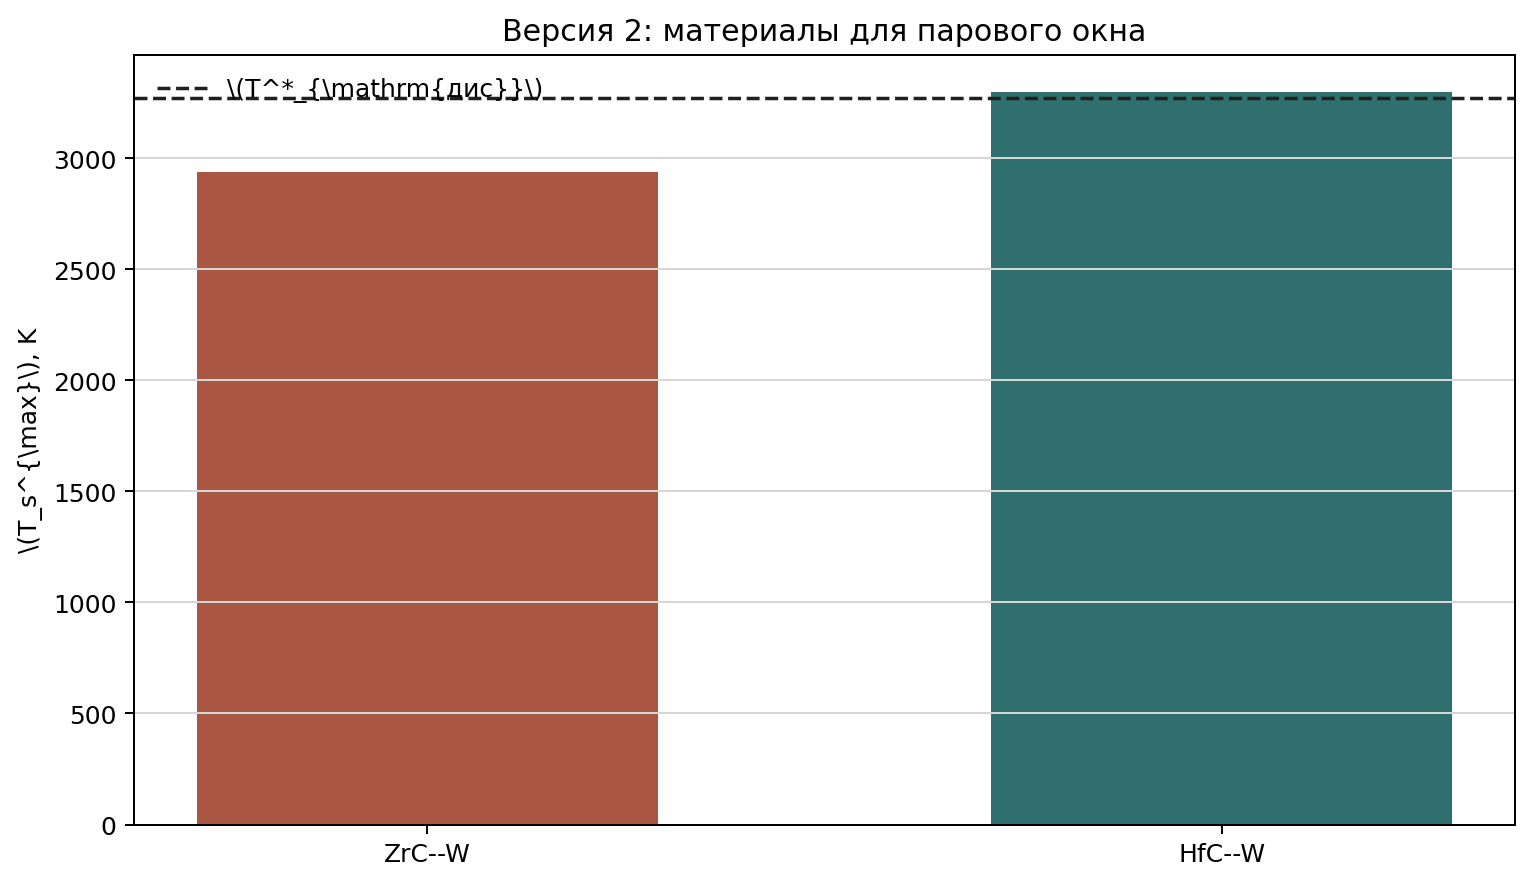
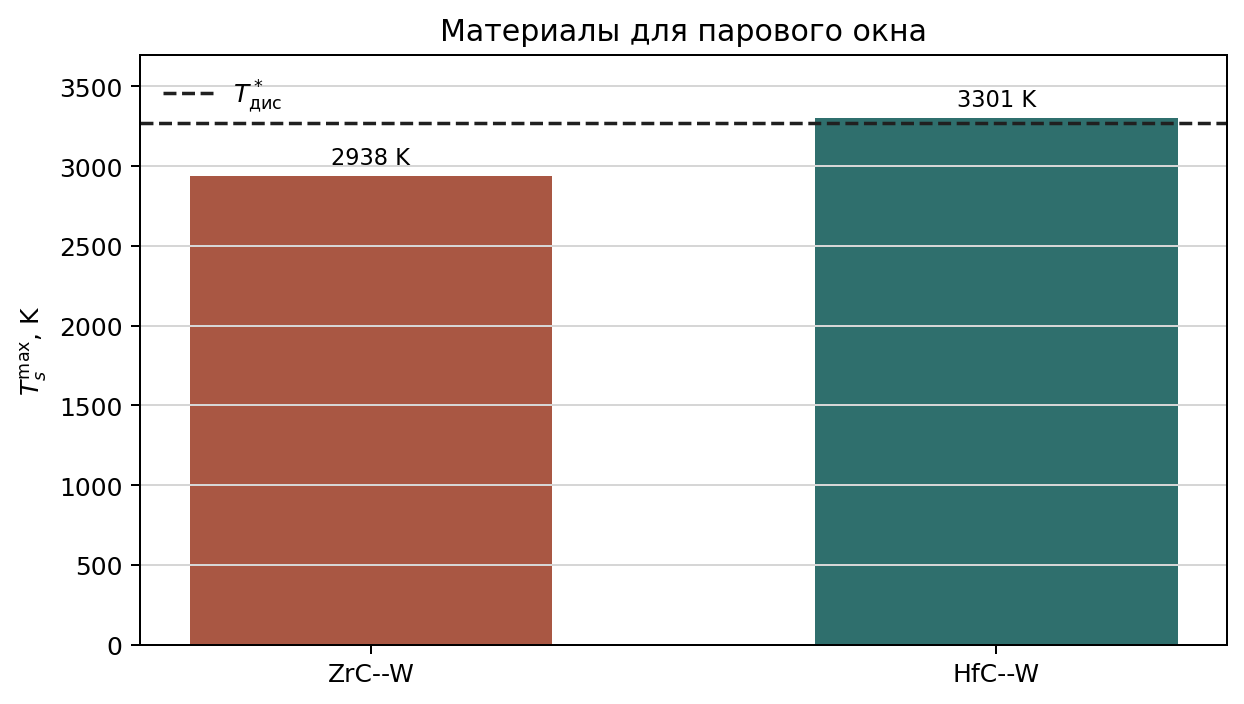
Update thesis figures and pipeline report

Changed region(s): [[0.0, 0.0, 1.0, 1.0]]

diff --git a/scripts/make_fig_thermal_radial_relaxation.py b/scripts/make_fig_thermal_radial_relaxation.py
@@ -1,8 +1,8 @@
-"""Generate fig14_thermal_radial_relaxation.
+"""Generate fig14_thermal_radial_relaxation for the active thesis text.
 
-The script solves a 1D radial heat equation for a simplified UO2-gap-Zr fuel
-pin after a uniform fuel pulse and plots radial relaxation plus energy
-partition between fuel, cladding, and coolant.
+The script solves a compact 1D radial heat equation for a simplified
+UO2-gap-Zr fuel pin after a uniform fuel pulse and plots the thermal lag
+between fuel, cladding, and the external water/steam side.
 """
 from __future__ import annotations
 
@@ -196,7 +196,7 @@ def make_figure(out_path: Path, png_path: Path) -> None:
 
     rc_mm = sim["rc"] * 1e3
 
-    fig, axes = plt.subplots(1, 2, figsize=(15.5, 6.6),
+    fig, axes = plt.subplots(1, 2, figsize=(12.4, 4.8),
                              gridspec_kw={"width_ratios": [1.15, 1.0]})
 
     # =========================================================
@@ -210,16 +210,28 @@ def make_figure(out_path: Path, png_path: Path) -> None:
     ax.axvspan(R_GAP_OUT * 1e3, R_CLAD_OUT * 1e3, color="#CFD8DC", alpha=0.85, zorder=0)
     ax.axvspan(R_CLAD_OUT * 1e3, 5.6, color="#BBDEFB", alpha=0.55, zorder=0)
 
-    # Material labels (inside axis, top edge)
-    for x, lbl in [
-        (R_FUEL * 1e3 / 2, r"UO$_2$"),
-        ((R_FUEL + R_GAP_OUT) * 1e3 / 2, "He gap"),
-        ((R_GAP_OUT + R_CLAD_OUT) * 1e3 / 2, "Zr"),
-        ((R_CLAD_OUT * 1e3 + 5.6) / 2, r"H$_2$O"),
+    # Material labels (inside axis, top edge).  The gas gap is too thin for
+    # a horizontal label, so it is marked vertically near the interface.
+    for x, lbl, fs, ha in [
+        (R_FUEL * 1e3 / 2, r"UO$_2$", 10.0, "center"),
+        ((R_GAP_OUT + R_CLAD_OUT) * 1e3 / 2, "оболочка", 8.3, "center"),
+        (5.32, r"H$_2$O/пар", 8.3, "right"),
     ]:
         ax.text(x, 0.965, lbl, transform=ax.get_xaxis_transform(),
-                ha="center", va="top", fontsize=10, color="#263238",
+                ha=ha, va="top", fontsize=fs, color="#263238",
                 fontweight="bold")
+    ax.text(
+        (R_FUEL + R_GAP_OUT) * 1e3 / 2,
+        0.92,
+        "зазор",
+        transform=ax.get_xaxis_transform(),
+        ha="center",
+        va="top",
+        rotation=90,
+        fontsize=8.5,
+        color="#5d4a00",
+        fontweight="bold",
+    )
 
     # Initial pulse profile (uniform DT in fuel, 0 elsewhere)
     T0_curve = np.where(sim["tag"] == 0, 200.0, 0.0)
@@ -260,9 +272,9 @@ def make_figure(out_path: Path, png_path: Path) -> None:
     ax.set_xlabel("радиус r, мм", fontsize=11)
     ax.set_ylabel(r"$\Delta T_f(r,t)$, К  (отклонение от равновесия с водой)",
                   fontsize=11)
-    ax.set_title(r"(а) Радиальная релаксация теплового следа $\Delta T_f(r,t)$",
+    ax.set_title(r"(а) Радиальная релаксация $\Delta T(r,t)$",
                  fontsize=12, pad=10)
-    ax.legend(loc="upper right", fontsize=9, framealpha=0.95, ncol=1)
+    ax.legend(loc="lower left", fontsize=8.4, framealpha=0.95, ncol=1)
     ax.grid(True, ls=":", alpha=0.45)
 
     # =========================================================
@@ -290,12 +302,12 @@ def make_figure(out_path: Path, png_path: Path) -> None:
              rotation=90, va="center", ha="right", fontsize=10, color="#212121")
 
     # Annotate Doppler vs water "windows"
-    ax2.annotate(r"окно $K_D(t)$:" "\n" r"объёмный нагрев топлива",
+    ax2.annotate("ранняя стадия:\nэнергия в топливе",
                  xy=(3e-3, 0.97), xytext=(2e-4, 0.62),
                  fontsize=10, color="#BF360C", ha="left",
                  arrowprops=dict(arrowstyle="-|>", color="#BF360C", lw=1.1,
                                  connectionstyle="arc3,rad=0.15"))
-    ax2.annotate(r"окно $H_{fw}(t)$:" "\n" r"выход энергии к воде",
+    ax2.annotate("задержанная стадия:\nвыход к воде/пару",
                  xy=(5.0, 0.78), xytext=(0.6, 0.20),
                  fontsize=10, color="#0D47A1", ha="left",
                  arrowprops=dict(arrowstyle="-|>", color="#0D47A1", lw=1.1,
@@ -305,14 +317,13 @@ def make_figure(out_path: Path, png_path: Path) -> None:
     ax2.set_ylim(0, 1.0)
     ax2.set_xlabel("время t, с (логарифмическая шкала)", fontsize=11)
     ax2.set_ylabel("доля энергии импульса", fontsize=11)
-    ax2.set_title(r"(б) Разделение энергии импульса по объёмам",
+    ax2.set_title("(б) Разделение энергии импульса",
                   fontsize=12, pad=10)
     ax2.legend(loc="upper left", fontsize=9, framealpha=0.95)
     ax2.grid(True, which="both", ls=":", alpha=0.45)
 
     fig.suptitle(
-        "Эволюция теплового следа в твэле после импульса мощности: "
-        "доплеровский и водный каналы живут на разных временах",
+        "Тепловая задержка между топливом и паровой областью после импульса",
         fontsize=13.5, y=0.995,
     )
 

diff --git a/main.tex b/main.tex
@@ -97,13 +97,13 @@ P'(t)\rightarrow T_f(r,t)\rightarrow T_c(r,t)\rightarrow q''_{cw}(t)
 \[
 q'''(t)=\frac{P'(t)}{\pi R_f^2}.
 \]
-В дальнейшем \(P'(t)\) рассматривается как входной сигнал тепловой модели; краткое пояснение его нейтронно-физического смысла вынесено в приложение Б.
+В дальнейшем \(P'(t)\) рассматривается как входной сигнал тепловой модели; краткое пояснение его нейтронно-физического смысла вынесено в приложение В.
 
 В расчетном сценарии входными параметрами являются \(E_{\mathrm{вв}}\), длительность импульса \(\tau_p\), материальная пара топлива и оболочки, давление \(p_s\), толщина паровой прослойки \(\delta_s\), начальная температура внешней среды и эффективные параметры зазора и теплоотдачи. Достижением режима считается не просто нагрев твердой части твэла, а одновременное выполнение трех условий: температура пара входит в выбранное высокотемпературное окно, топливо и оболочка остаются в допустимых пределах, а водородная оценка относится к разложению пара, а не к аварийному окислению оболочки.
 
 \begin{figure}[H]
     \centering
-    \includegraphics[width=\textwidth]{figures/fig7_fuel_pin_anatomy.pdf}
+    \includegraphics[width=0.92\textwidth]{figures/fig7_fuel_pin_anatomy.pdf}
     \caption{Расчетная область: энерговыделение возникает в топливе \(UO_2\), затем энергия проходит через газовый зазор и оболочку к воде или пару. Высокая температура топлива сама по себе не означает высокую температуру паровой области.}
     \label{fig:fuelPinAnatomyTheory}
 \end{figure}
@@ -158,8 +158,8 @@ q''_{cw}=\mathcal{Q}(T_s,T_\infty,p,G,\chi).
 
 \begin{figure}[H]
     \centering
-    \includegraphics[width=\textwidth]{figures/fig14_thermal_radial_relaxation.pdf}
-    \caption{Радиальная тепловая релаксация твэла после короткого импульса мощности. В первые миллисекунды энергия остается главным образом в топливе; заметный выход к воде формируется на более длинном тепловом масштабе и может быть описан редуцированным ядром \(H_{fw}\).}
+    \includegraphics[width=0.90\textwidth]{figures/fig14_thermal_radial_relaxation.pdf}
+    \caption{Радиальная тепловая релаксация твэла после короткого импульса мощности. В первые миллисекунды энергия остается главным образом в топливе; заметный выход к воде или пару формируется на более длинном тепловом масштабе.}
     \label{fig:thermalRadialRelaxation}
 \end{figure}
 
@@ -325,7 +325,29 @@ E_{\mathrm{вв}},\ \tau_p,\ h_g,\ h_s,\ \delta_s,\ p,\ \text{материаль
 \]
 где отдельно размечаются области: окно не достигнуто; окно достигнуто без нарушения пределов; окно достигнуто только аварийно; материалы нарушены без полезного окна.
 
-Версия 2 вводится именно как такой отдельный отборочный расчет. Она не отменяет отрицательный вывод по \(UO_2\)--Zircaloy, а проверяет, появляется ли хотя бы тепловая область для более тугоплавкой материальной архитектуры. По результатам материаловедческого отбора \(UO_2\), \(UN\), \(UC\), Zircaloy, Mo и SiC/SiC не проходят первый температурный фильтр для паровой стенки около \(3273\,\mathrm{K}\). Вольфрам и рефрактерные карбиды могут открыть математическое тепловое окно, но наружная поверхность в прямом контакте с паром должна отдельно пройти химическую, механическую и нейтронно-физическую проверку.
+Отдельный отборочный расчет не отменяет отрицательный вывод по \(UO_2\)--Zircaloy, а проверяет, появляется ли хотя бы тепловая область для более тугоплавкой материальной архитектуры. По результатам материаловедческого отбора \(UO_2\), \(UN\), \(UC\), Zircaloy, Mo и SiC/SiC не проходят первый температурный фильтр для паровой стенки около \(3273\,\mathrm{K}\). Этот фильтр является только необходимым условием: материал должен выдерживать температуру выше целевого слоя с запасом на радиальный градиент, разброс свойств и состояние поверхности \cite{IAEATHPH2007,IAEATECDOC1496,NRC10CFR5046,LOCAOxidation,ORNLSiCSiC2018}. Вольфрам и рефрактерные карбиды могут открыть математическое тепловое окно, но наружная поверхность в прямом контакте с паром должна отдельно пройти химическую, механическую и нейтронно-физическую проверку.
+
+\begin{table}[H]
+    \centering
+    \caption{Первый температурный фильтр материалов для паровой стенки около \(3273\,\mathrm{K}\). Таблица показывает только необходимое тепловое условие и не является полной квалификацией материала.}
+    \label{tab:firstTemperatureMaterialFilter}
+    \small
+    \renewcommand{\arraystretch}{1.15}
+    \resizebox{\textwidth}{!}{%
+    \begin{tabular}{@{}p{2.8cm}p{4.0cm}p{8.0cm}@{}}
+    \hline
+    Материал & Ограничивающий температурный ориентир & Вывод для текущей постановки \\
+    \hline
+    \(UO_2\) & \(T_m\approx3120\,\mathrm{K}\) & Предел топлива ниже целевого слоя \(3273\,\mathrm{K}\); при внутреннем источнике тепла нет запаса на радиальный градиент. \\
+    \(UN\) & \(T_m\approx3120\,\mathrm{K}\), устойчивость зависит от парциального давления азота & Теплопроводность выше, чем у \(UO_2\), но температурный запас для паровой стенки отсутствует. \\
+    \(UC\) & \(T_m\approx2780\,\mathrm{K}\) & Хорошая теплопроводность не компенсирует слишком низкий температурный предел. \\
+    Zircaloy & \(T_{\mathrm{lim},c}=1477\,\mathrm{K}\), плавление порядка \(2.1\cdot10^3\,\mathrm{K}\) & Оболочка нарушает допустимый предел задолго до области высокотемпературного разложения пара. \\
+    Mo & \(T_m\approx2896\,\mathrm{K}\) & Металл теплопроводен, но плавится ниже цели и требует отдельной проверки парового окисления. \\
+    SiC/SiC & Область аварийно-толерантной оболочки лежит ниже целевого окна; высокотемпературная деградация начинается до \(3273\,\mathrm{K}\) & Материал важен для аварийно-толерантных оболочек, но не является наружной стенкой для прямого контакта с паром около \(3000^\circ\mathrm{C}\). \\
+    \hline
+    \end{tabular}
+    }
+\end{table}
 
 \input{figures/pipeline_v2_report.tex}
 
@@ -387,7 +409,7 @@ E_{\mathrm{вв}},\ \tau_p,\ h_g,\ h_s,\ \delta_s,\ p,\ \text{материаль
 
 Полученные результаты следует рассматривать как предварительную физическую границу, а не как проектную проработку установки. Текущая модель задает одномерный радиальный теплоперенос и приповерхностную паровую прослойку. Она не описывает трехмерную гидродинамику канала, образование и срыв пленки, переменный контакт воды и пара с оболочкой, механические напряжения оболочки, деформацию топлива и изменение зазора при быстром нагреве.
 
-Материальные ограничения также заданы упрощенно. Для \(UO_2\)--Zircaloy используется температурный предел оболочки и ориентир по плавлению топлива, но не рассчитываются окисление, охрупчивание, циклический термоудар и ресурс после импульса. Поэтому отрицательный вывод версии 1 следует понимать как необходимую температурную границу для циркониевой оболочки, а не как полную расчетную модель поведения оболочки в аварийном паровом режиме. Версия 2 выполняет только тепловой отбор новых материалов и не является квалификацией новой оболочки в паре.
+Материальные ограничения также заданы упрощенно. Для \(UO_2\)--Zircaloy используется температурный предел оболочки и ориентир по плавлению топлива, но не рассчитываются окисление, охрупчивание, циклический термоудар и ресурс после импульса. Поэтому отрицательный вывод версии 1 следует понимать как необходимую температурную границу для циркониевой оболочки, а не как полную расчетную модель поведения оболочки в аварийном паровом режиме. Материаловедческий отбор выполняет только тепловую проверку новых материалов и не является квалификацией новой оболочки в паре.
 
 Химический блок является верхней оценкой. В расчете учитывается энергия, которая могла бы быть потрачена на разложение воды после достижения выбранного температурного порога, но не рассчитываются равновесный состав с радикалами, кинетика реакций, время пребывания при высокой температуре, смешение, рекомбинация и быстрое охлаждение продуктов. Поэтому \(m_{H_2}^{\max}\) является верхней границей, а не прогнозом извлекаемой массы водорода.
 
@@ -399,7 +421,7 @@ E_{\mathrm{вв}},\ \tau_p,\ h_g,\ h_s,\ \delta_s,\ p,\ \text{материаль
 
 Для базовой материальной пары \(UO_2\)--Zircaloy расчетный вариант с \(E_{\mathrm{вв}}=250\,\mathrm{кДж/м}\) не достигает принятого порога \(T^*_{\mathrm{дис}}=3273\,\mathrm{K}\) в паровой прослойке. Более сильный результат состоит в том, что уже уровень слабой диссоциации \(x_{H_2}\sim10^{-4}\) при давлении \(15.5\,\mathrm{МПа}\) требует температуры выше принятого предела циркониевой оболочки \(1477\,\mathrm{K}\). Увеличение импульсной энергии приводит к росту температуры топлива и оболочки раньше, чем формируется допустимое термолизное окно. Поэтому в рамках принятых допущений штатная водоохлаждаемая материальная пара не дает корректного режима прямого высокотемпературного разложения водяного пара.
 
-Вторая версия расчета отдельно проверяет, может ли изменение материальной архитектуры открыть тепловое окно без подмены результата по \(UO_2\)--Zircaloy. Полученный отбор показывает две разные роли. ZrC-центричная ветка является более защищаемым исследовательским направлением, но в текущих параметрах остается ниже принятого порога. \(HfC\)--W открывает тепловое окно в математической модели, однако остается только верхним контрфактом из-за гафния, парового окисления вольфрама и отсутствия квалификации наружной поверхности.
+Материаловедческий отбор отдельно проверяет, может ли изменение архитектуры открыть тепловое окно без подмены результата по \(UO_2\)--Zircaloy. Полученный расчет показывает две разные роли. ZrC-центричная ветка является более защищаемым исследовательским направлением, но в текущих параметрах остается ниже принятого порога. \(HfC\)--W открывает тепловое окно в математической модели, однако остается только верхним контрфактом из-за гафния, парового окисления вольфрама и отсутствия квалификации наружной поверхности.
 
 Полученная модель не доказывает промышленную реализуемость схемы прямого получения водорода у твэла. Она задает границу применимости: целевой режим допустим только тогда, когда высокая температура достигается именно в паровой области, масса этой области оценена, оболочка и топливо остаются в допустимых пределах, а образование \(H_2\) не объясняется пароциркониевой реакцией. Для \(UO_2\)--Zircaloy такой режим не проходит уже по температурному условию оболочки, а не только по энергетике тонкой паровой пленки. При невыполнении этих условий более содержательной практической нишей остаются не товарный водород, а высокоэнтальпийный пар, температурное усиление водоохлаждаемой системы или исследовательские импульсные режимы.
 
@@ -501,6 +523,11 @@ High-temperature oxidation kinetics of tungsten-water reaction with hydrogen inh
 \textit{Journal of Propulsion and Power}, 27(5), 1088--1096, 2011.
 \url{https://doi.org/10.2514/1.B34093}
 
+\bibitem{ORNLSiCSiC2018}
+Koyanagi T. et al.
+\textit{Handbook of LWR SiC/SiC Cladding Properties}.
+ORNL/TM-2018/824, Oak Ridge National Laboratory, 2018.
+
 \bibitem{IAPWSIF97}
 International Association for the Properties of Water and Steam.
 \textit{Revised Release on the IAPWS Industrial Formulation 1997 for the Thermodynamic Properties of Water and Steam}.
@@ -542,13 +569,13 @@ NEA/CSNI/R(2014)15, OECD, Paris, 2014.
 
 \newpage
 \section*{Приложение Б. Работа расчетного ноутбука \texttt{02\_tvel\_materials\_pipeline\_v2.ipynb}}
-\addcontentsline{toc}{section}{Приложение Б. Работа расчетного ноутбука \texttt{02\_tvel\_materials\_pipeline\_v2.ipynb}}
+\addcontentsline{toc}{section}{Приложение Б. Материаловедческий пайплайн V2}
 
 Ноутбук \texttt{notebooks/02\_tvel\_materials\_pipeline\_v2.ipynb} отделяет поисковую материаловедческую ветку от отрицательного результата версии \texttt{zircaloy-v1}. Его входная геометрия, давление, толщина паровой прослойки и температурный порог наследуются от первой версии, но материальная пара и импульс задаются заново. Такое разделение нужно, чтобы результат по циркониевой оболочке не смешивался с допущениями о рефрактерных суррогатах.
 
 Основные выходы ноутбука остаются теми же, что и в основной расчетной цепочке: максимум температуры паровой прослойки, запас топлива и оболочки до температурных пределов и верхняя энергетическая оценка \(H_2\). В текущей редакции проверяются две роли. Пара \(ZrC\)--W используется как более правдоподобная ZrC-центричная исследовательская ветка, где наружный вольфрам пока остается неквалифицированным по пару. Пара \(HfC\)--W используется как тепловой верхний контрфакт, который показывает непустоту математического теплового окна, но не является рекомендацией для реактора из-за гафния и парового окисления вольфрама.
 
-Финальная ячейка вызывает \texttt{export\_pipeline\_v2\_artifacts(ROOT / "figures")} и пересоздает \texttt{figures/pipeline\_v2\_material\_window.png} и \texttt{figures/pipeline\_v2\_report.tex}. Общий скрипт \texttt{scripts/export\_pipeline\_figures.py} теперь обновляет оба слоя отчета: V1 для \(UO_2\)--Zircaloy и V2 для материаловедческого отбора.
+Финальная ячейка вызывает \texttt{export\_pipeline\_v2\_artifacts(ROOT / "figures")} и пересоздает \texttt{figures/pipeline\_v2\_material\_window.png} и \texttt{figures/pipeline\_v2\_report.tex}. Этот экспорт отделен от общего V1-скрипта \texttt{scripts/export\_pipeline\_figures.py}, чтобы обновление результата \(UO_2\)--Zircaloy не перезаписывало материалы поисковой версии.
 
 \newpage
 \section*{Приложение В. Физический смысл заданного импульса мощности}

diff --git a/figures/pipeline_report.tex b/figures/pipeline_report.tex
@@ -12,8 +12,8 @@ m_s'=\rho_s \pi\left[(R_c+\delta_s)^2-R_c^2\right],
 
 \begin{figure}[H]
     \centering
-    \includegraphics[width=0.92\textwidth]{figures/pipeline_temperature_history.png}
-    \caption{История температур базового сценария \(UO_2\)--Zircaloy при \(E_{\mathrm{вв}}=250\,\mathrm{кДж/м}\). Паровая прослойка нагревается только до \(T_s^{\max}\approx1977\,\mathrm{K}\), то есть ниже принятого порога \(T^*_{\mathrm{дис}}=3273\,\mathrm{K}\), но выше допустимого предела циркониевой оболочки.}
+    \includegraphics[width=0.82\textwidth]{figures/pipeline_temperature_history.png}
+    \caption{Версия 1: история температур \(UO_2\)--Zircaloy при \(E_{\mathrm{вв}}=250\,\mathrm{кДж/м}\). Паровая прослойка не достигает порога \(T^*_{\mathrm{дис}}=3273\,\mathrm{K}\), а оболочка выходит выше допустимого предела.}
     \label{fig:pipelineTemperatureHistory}
 \end{figure}
 
@@ -27,10 +27,31 @@ j\in\{f,c,s\}.
 
 \begin{figure}[H]
     \centering
-    \includegraphics[width=0.92\textwidth]{figures/pipeline_energy_balance.png}
+    \includegraphics[width=0.82\textwidth]{figures/pipeline_energy_balance.png}
     \caption{Доли энергии импульса, накопленные в топливе, оболочке и паровой прослойке. Основная часть энергии остается в твердой части твэла.}
     \label{fig:pipelineEnergyBalance}
 \end{figure}
+
+Малую величину \(\varepsilon_s\) удобно разложить как энергетическую воронку. В строке «топливо и газовый зазор» показана энергия, которая к моменту \(t=20.0\,\mathrm{s}\) не дошла до оболочки; зазор в этой модели не имеет собственной теплоемкости, но задает сопротивление передаче тепла. В строке «оболочка» показана энергия, которая уже прошла через зазор, но осталась в металле оболочки и не была передана паровой прослойке.
+
+\begin{table}[H]
+    \centering
+    \caption{Энергетическая воронка версии 1 к концу расчета. Величины нормированы на \(E_{\mathrm{вв}}=250\,\mathrm{кДж/м}\).}
+    \label{tab:pipelineEnergyFunnel}
+    \small
+    \resizebox{\textwidth}{!}{%
+    \begin{tabular}{@{}p{4.2cm}rrrrr@{}}
+    \hline
+    Звено & Накоплено или не прошло, кДж/м & от \(E_{\mathrm{вв}}\), \% & от входа звена, \% & Прошло дальше, кДж/м & от \(E_{\mathrm{вв}}\), \% \\
+    \hline
+    Топливо и газовый зазор & 204.62 & 81.85 & 81.85 & 45.38 & 18.15 \\
+    Оболочка & 44.81 & 17.92 & 98.75 & 0.57 & 0.227 \\
+    \hline
+    \end{tabular}
+    }
+\end{table}
+
+Итоговая энергия в паровой прослойке составляет только \(E_s\approx0.568\,\mathrm{кДж/м}\), или \(0.227\,\%\) от импульса. До последнего расчетного момента с положительным запасом оболочки эта величина еще меньше: \(E_s\approx0.347\,\mathrm{кДж/м}\), или \(0.139\,\%\). Поэтому значение порядка \(0.23\,\%\) является следствием двух последовательных фильтров: за выбранное время через топливо и зазор проходит малая часть импульса, а почти вся энергия, прошедшая через зазор, сначала нагревает оболочку.
 
 Верхняя энергетическая граница для водорода считается только по энергии перегрева пара выше выбранного порога:
 \[
@@ -41,13 +62,6 @@ m_{H_2}^{\max}=
 \frac{M_{H_2}}{M_{H_2O}}.
 \]
 Так как \(T_s^{\max}<T^*_{\mathrm{дис}}\), для порога \(3273\,\mathrm{K}\) получается \(m_{H_2}^{\max}=0\). До выхода топлива и оболочки за принятые пределы паровая прослойка успевает нагреться только до \(T_s\approx1450\,\mathrm{K}\). Одновременно полный расчетный максимум оболочки дает отрицательный запас \(M_{\mathrm{об}}=T_{\mathrm{lim},c}-T_c^{\max}\approx-500\,\mathrm{K}\). Топливо в этой точке еще не является первым ограничением, поскольку \(M_f\approx842\,\mathrm{K}\).
-
-\begin{figure}[H]
-    \centering
-    \includegraphics[width=0.92\textwidth]{figures/pipeline_chemistry_window.png}
-    \caption{Температурное окно для базового сценария \(UO_2\)--Zircaloy. Порог прямого термолиза не пересекается до выхода оболочки из допустимого температурного окна.}
-    \label{fig:pipelineChemistryWindow}
-\end{figure}
 
 \begin{table}[H]
     \centering

diff --git a/figures/pipeline_v2_report.tex b/figures/pipeline_v2_report.tex
@@ -1,19 +1,19 @@
-\subsection{Версия 2: поиск высокотемпературной материальной архитектуры}
+\subsection{Материаловедческий отбор для парового окна}
 
-Вторая версия расчетного пайплайна отвечает уже не на вопрос о штатной циркониевой оболочке, а на вопрос о том, какой класс материалов нужен для реакторной схемы, способной подвести энергию к тонкой паровой области и открыть путь к ненулевому выходу \(H_2\). Входами остаются геометрия одного метра твэла, давление \(15.5\,\mathrm{МПа}\), толщина паровой прослойки и импульс \(E_{\mathrm{вв}}\). Основные выходы не меняются: \(T_s^{\max}\), запас топлива и оболочки до пределов и верхняя энергетическая оценка \(H_2\).
+Отборочный расчет отвечает уже не на вопрос о штатной циркониевой оболочке, а на вопрос о том, какой класс материалов нужен для реакторной схемы, способной подвести энергию к тонкой паровой области и открыть путь к ненулевому выходу \(H_2\). Входами остаются геометрия одного метра твэла, давление \(15.5\,\mathrm{МПа}\), толщина паровой прослойки и импульс \(E_{\mathrm{вв}}\). Основные выходы не меняются: \(T_s^{\max}\), запас топлива и оболочки до пределов и верхняя энергетическая оценка \(H_2\).
 
-Эта версия не заменяет химико-механическую квалификацию материалов. \(ZrC\)-центричная ветка введена как более правдоподобное исследовательское направление после отсева \(UO_2\), \(UN\), \(UC\), Zircaloy, Mo и SiC/SiC. \(HfC\)--W оставлен как оптимистический тепловой контрфакт: он показывает, что математическое тепловое окно может открыться, но не является предложением материала из-за гафния и парового окисления вольфрама \cite{UshakovCarbides2019,PetersonZrC2023,SabourinTungstenSteam2011}.
+Этот отборочный слой не заменяет химико-механическую квалификацию материалов. \(ZrC\)-центричная ветка введена как более правдоподобное исследовательское направление после отсева \(UO_2\), \(UN\), \(UC\), Zircaloy, Mo и SiC/SiC. \(HfC\)--W оставлен как оптимистический тепловой контрфакт: он показывает, что математическое тепловое окно может открыться, но не является предложением материала из-за гафния и парового окисления вольфрама \cite{UshakovCarbides2019,PetersonZrC2023,SabourinTungstenSteam2011}.
 
 \begin{figure}[H]
     \centering
-    \includegraphics[width=0.90\textwidth]{figures/pipeline_v2_material_window.png}
-    \caption{Версия 2 пайплайна: сравнение высокотемпературных материаловедческих суррогатов по максимуму температуры паровой прослойки. Положительный тепловой признак не означает химически квалифицированную оболочку.}
+    \includegraphics[width=0.74\textwidth]{figures/pipeline_v2_material_window.png}
+    \caption{Отборочный расчет новых материалов: сравнение высокотемпературных суррогатов по максимуму температуры паровой прослойки. Положительный тепловой признак не означает химически квалифицированную оболочку.}
     \label{fig:pipelineV2MaterialWindow}
 \end{figure}
 
 \begin{table}[H]
     \centering
-    \caption{Версия 2 пайплайна: отборочные сценарии для новой материальной структуры.}
+    \caption{Отборочные сценарии для новой материальной структуры.}
     \label{tab:pipelineV2MaterialScenarios}
     \footnotesize
     \resizebox{\textwidth}{!}{%
@@ -28,4 +28,4 @@
     }
 \end{table}
 
-Инженерная трактовка второй версии такая: цель диплома остается положительной -- найти расчетную область, где реакторная система может получить высокотемпературный пар и ненулевую верхнюю оценку \(H_2\). Но путь к этой области проходит через последовательный отбор: сначала исключается штатная циркониевая оболочка, затем строится тепловой контрфакт, и только после этого можно ставить отдельную задачу о ZrC-центричном материале, паровой химии, механике и нейтронной совместимости.
+Инженерная трактовка такого расчета остается умеренной: цель диплома -- найти расчетную область, где реакторная система может получить высокотемпературный пар и ненулевую верхнюю оценку \(H_2\). Но путь к этой области проходит через последовательный отбор: сначала исключается штатная циркониевая оболочка, затем строится тепловой контрфакт, и только после этого можно ставить отдельную задачу о ZrC-центричном материале, паровой химии, механике и нейтронной совместимости.

diff --git a/VISUALIZATION_MAP.md b/VISUALIZATION_MAP.md
@@ -1,6 +1,6 @@
 # Карта визуализаций диплома
 
-Активные рисунки в `main.tex` сейчас сведены к теме ТВЭЛ--вода/пар: расчетная геометрия, радиальная тепловая релаксация, V1-пайплайн из `notebooks/01_tvel_water_pipeline.ipynb` и V2-пайплайн материаловедческого отбора из `notebooks/02_tvel_materials_pipeline_v2.ipynb`. Графики pipeline выводятся отдельными файлами: одна картинка отвечает на один расчетный вопрос. Старые доплеровские, memory-kernel и GeN-Foam diagnostic-графики больше не подключаются в диплом.
+Активные рисунки в `main.tex` сейчас сведены к теме ТВЭЛ--вода/пар: анатомия расчетной области, радиальная тепловая задержка, V1-пайплайн для \(UO_2\)--Zircaloy и V2-пайплайн материаловедческого отбора. Графики pipeline выводятся отдельными файлами: одна картинка отвечает на один расчетный вопрос. Старые доплеровские, memory-kernel и GeN-Foam diagnostic-графики больше не подключаются в диплом.
 
 ## Быстрая регенерация
 
@@ -16,24 +16,19 @@ make pipeline-figures
 python3 scripts/export_pipeline_figures.py
 ```
 
-Скрипт пересчитывает notebook-сценарии через `src/thesis_modeling/pipeline_export.py` и `src/thesis_modeling/pipeline_v2_export.py`, обновляет PNG и заново пишет `figures/pipeline_report.tex` и `figures/pipeline_v2_report.tex`. Цель `make pdf` вызывает `make pipeline-figures` автоматически.
+Цель `make pipeline-figures` обновляет все активные рисунки: `fig7_fuel_pin_anatomy`, `fig14_thermal_radial_relaxation`, V1-отчет и V2-отчет. Цель `make pdf` вызывает `make pipeline-figures` автоматически.
 
 ## Активные рисунки и таблицы
 
 | Объект | Файл | Подключение | Источник |
 |---|---|---|---|
-| `fig:fuelPinAnatomyTheory` | `figures/fig7_fuel_pin_anatomy.pdf` | `main.tex` | статичная схема расчетной области |
+| `fig:fuelPinAnatomyTheory` | `figures/fig7_fuel_pin_anatomy.pdf` | `main.tex` | `scripts/make_fig_fuel_pin_anatomy.py` |
 | `fig:thermalRadialRelaxation` | `figures/fig14_thermal_radial_relaxation.pdf` | `main.tex` | `scripts/make_fig_thermal_radial_relaxation.py` |
-| `fig:pipelineGeometry` | `figures/pipeline_geometry.png` | `figures/pipeline_report.tex` | `scripts/export_pipeline_figures.py` |
 | `fig:pipelineTemperatureHistory` | `figures/pipeline_temperature_history.png` | `figures/pipeline_report.tex` | `scripts/export_pipeline_figures.py` |
-| `fig:pipelineRadialTemperatureMap` | `figures/pipeline_radial_temperature_map.png` | `figures/pipeline_report.tex` | `scripts/export_pipeline_figures.py` |
-| `fig:pipelineRadialTemperatureProfiles` | `figures/pipeline_radial_temperature_profiles.png` | `figures/pipeline_report.tex` | `scripts/export_pipeline_figures.py` |
 | `fig:pipelineEnergyBalance` | `figures/pipeline_energy_balance.png` | `figures/pipeline_report.tex` | `scripts/export_pipeline_figures.py` |
-| `fig:pipelineSteamState` | `figures/pipeline_steam_state.png` | `figures/pipeline_report.tex` | `scripts/export_pipeline_figures.py` |
-| `fig:pipelineChemistryWindow` | `figures/pipeline_chemistry_window.png` | `figures/pipeline_report.tex` | `scripts/export_pipeline_figures.py` |
-| `fig:pipelineV2MaterialWindow` | `figures/pipeline_v2_material_window.png` | `figures/pipeline_v2_report.tex` | `scripts/export_pipeline_figures.py` |
+| `fig:pipelineV2MaterialWindow` | `figures/pipeline_v2_material_window.png` | `figures/pipeline_v2_report.tex` | `src/thesis_modeling/pipeline_v2_export.py` |
 | `tab:pipelineScenarioReport` | `figures/pipeline_report.tex` | `main.tex` через `\input` | `scripts/export_pipeline_figures.py` |
-| `tab:pipelineV2MaterialScenarios` | `figures/pipeline_v2_report.tex` | `main.tex` через `\input` | `scripts/export_pipeline_figures.py` |
+| `tab:pipelineV2MaterialScenarios` | `figures/pipeline_v2_report.tex` | `main.tex` через `\input` | `src/thesis_modeling/pipeline_v2_export.py` |
 
 ## Старые рабочие материалы
 